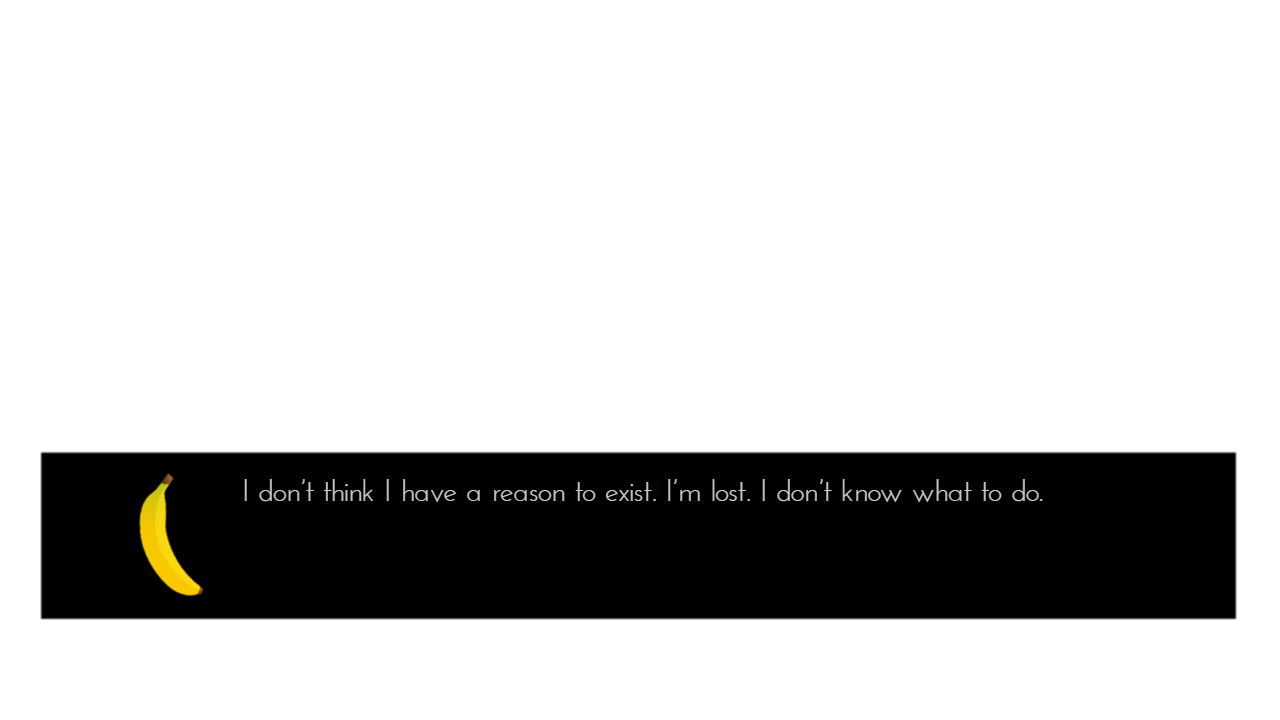
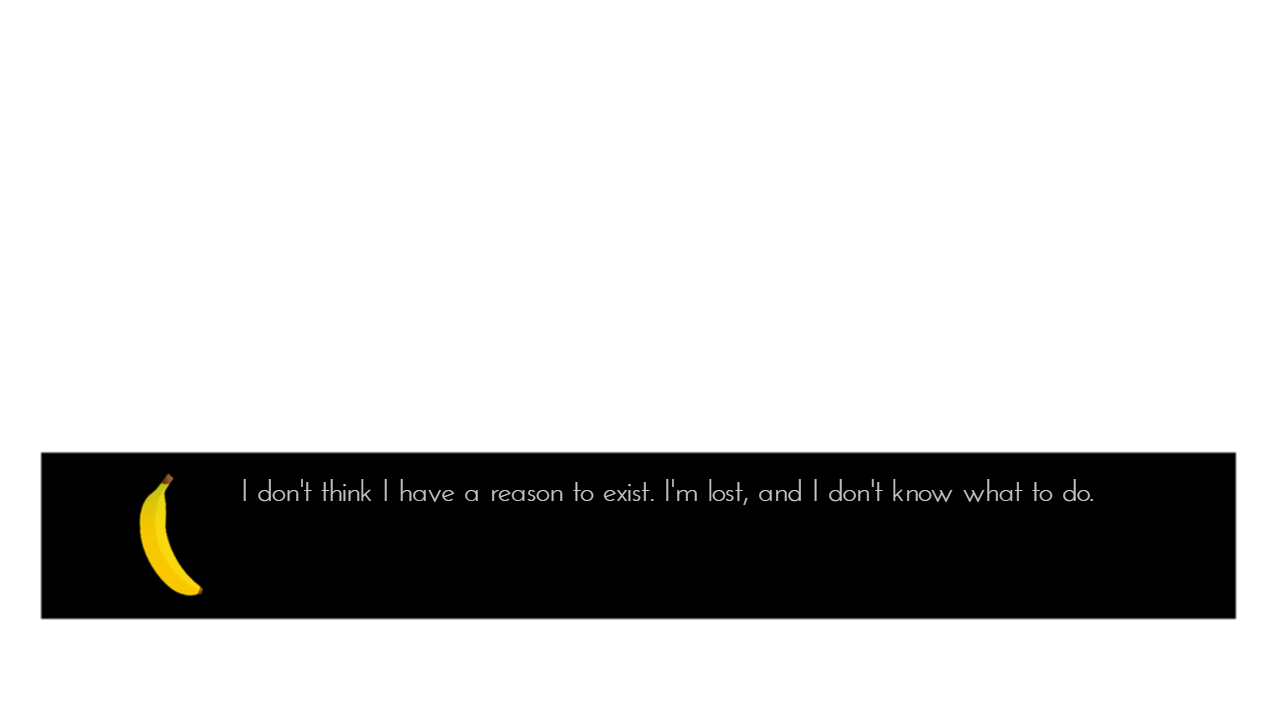
changed dialogue + added objective

Changed region(s): [[0.1875, 0.6722, 0.8438, 0.7028]]

diff --git a/Gamefx/LevelTwo.java b/Gamefx/LevelTwo.java
@@ -163,6 +163,10 @@ public class LevelTwo
       filled_dialogue.setPreserveRatio(true);
       filled_dialogue.setFitWidth(1280);
       filled_dialogue.setFitHeight(720);
+      ImageView objective = new ImageView(new Image("/Images/Room2/objective.png"));
+      objective.setPreserveRatio(true);
+      objective.setFitWidth(1280);
+      objective.setFitHeight(720);
    
       //scenes is an arrayList with all of our rooms
       ArrayList <ImageView> scenes = new ArrayList <ImageView>();
@@ -316,6 +320,7 @@ public class LevelTwo
                            root.getChildren().remove(ba4_1_4);
                            root.getChildren().add(rightButt);
                            root.getChildren().add(leftButt);
+                           root.getChildren().add(objective);
                            status.set(1);
                            dChoice.set(-1);
                         }
